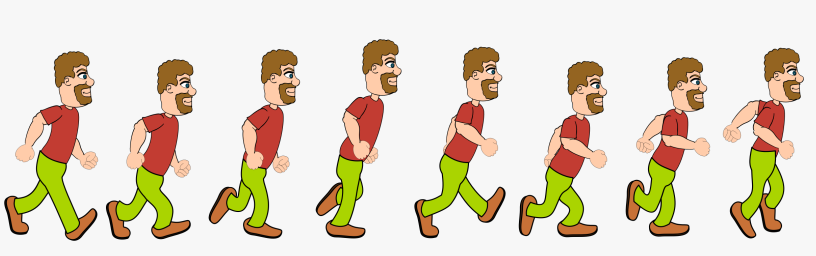
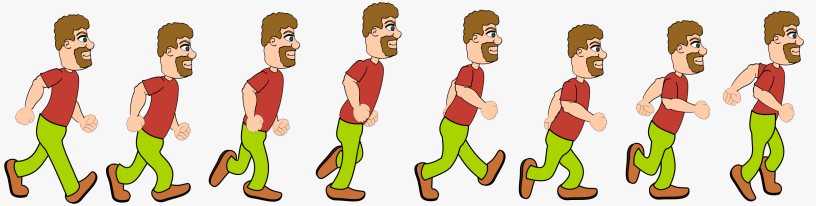
Loaded index of sprite

diff --git a/main.cpp b/main.cpp
@@ -13,14 +13,9 @@ int main()
     Loader loader;
     Renderer2D renderer(loader);
 
-    Texture texture(renderer.getModel(),loader.loadTexture("res/apple.png"));
-    Texture texture1(renderer.getModel(),loader.loadTexture("res/texture.jpg"));
     Texture texture2(renderer.getModel(), loader.loadTexture("res/walking.png"));
 
-    renderer.addGui(Entity2D(texture, glm::vec3{-0.5, 0.5, 0.0}, 0.3));
-    renderer.addGui(Entity2D(texture, glm::vec3{0.5, 0.5, 0.0}, 0.3));
-    renderer.addGui(Entity2D(texture1, glm::vec3{0.5, -0.5, 0.0}, 0.3));
-    renderer.addSprite(Entity2D(texture2, glm::vec3{-0.5, -0.5, 0.0}, 0.3));
+    renderer.addSprite(Entity2D(texture2, glm::vec3{-0.5, -0.1, 0.0}, 0.5));
 
     while (display.isRunning())
     {

diff --git a/engine/sprites/SpritesShader.cpp b/engine/sprites/SpritesShader.cpp
@@ -18,4 +18,12 @@ void SpritesShader::loadTransformationMatrix(const glm::mat4 &transformationMatr
 void SpritesShader::getUniformLocations()
 {
     m_LocationTransformationMatrix = glGetUniformLocation(m_Program, "transformationMatrix");
+    m_LocationCol = glGetUniformLocation(m_Program, "col");
+    m_LocationRow = glGetUniformLocation(m_Program, "row");
+}
+
+void SpritesShader::loadSpritePosition(int row, int col)
+{
+    loadInteger(m_LocationRow, row);
+    loadInteger(m_LocationCol, col);
 }

diff --git a/engine/sprites/SpritesShader.h b/engine/sprites/SpritesShader.h
@@ -17,11 +17,15 @@ private:
     constexpr static const char *FRAGMENT_FILE = "engine/shader/sources/SpriteFragmentShader.glsl";
 
     GLuint m_LocationTransformationMatrix{};
+    GLuint m_LocationRow{};
+    GLuint m_LocationCol{};
 
 public:
     SpritesShader();
 
     void loadTransformationMatrix(const glm::mat4 &transformationMatrix) const;
+
+    void loadSpritePosition(int row, int col);
 
 private:
     void getUniformLocations();

diff --git a/engine/shader/Shader.cpp b/engine/shader/Shader.cpp
@@ -80,3 +80,8 @@ void Shader::loadMatrix(GLuint location, const glm::mat4 &matrix)
 {
     glUniformMatrix4fv(location, 1, GL_FALSE, &matrix[0][0]);
 }
+
+void Shader::loadInteger(GLuint location, int value)
+{
+    glUniform1i(location, value);
+}

diff --git a/engine/shader/Shader.h b/engine/shader/Shader.h
@@ -32,6 +32,8 @@ public:
 protected:
     static void loadMatrix(GLuint location, const glm::mat4 &matrix);
 
+    static void loadInteger(GLuint location, int value);
+
 };
 
 
